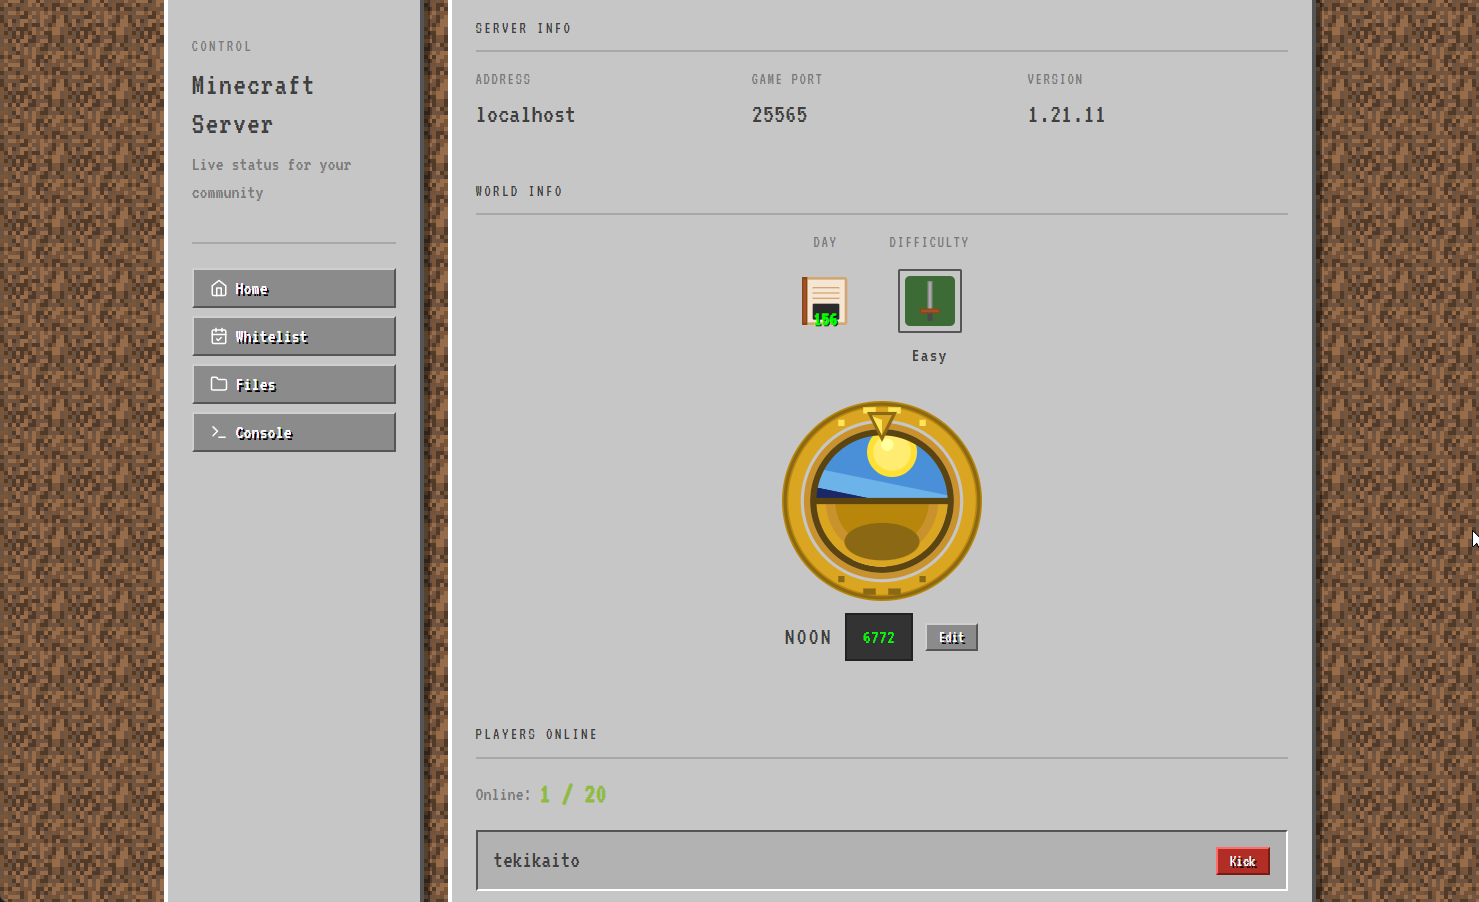
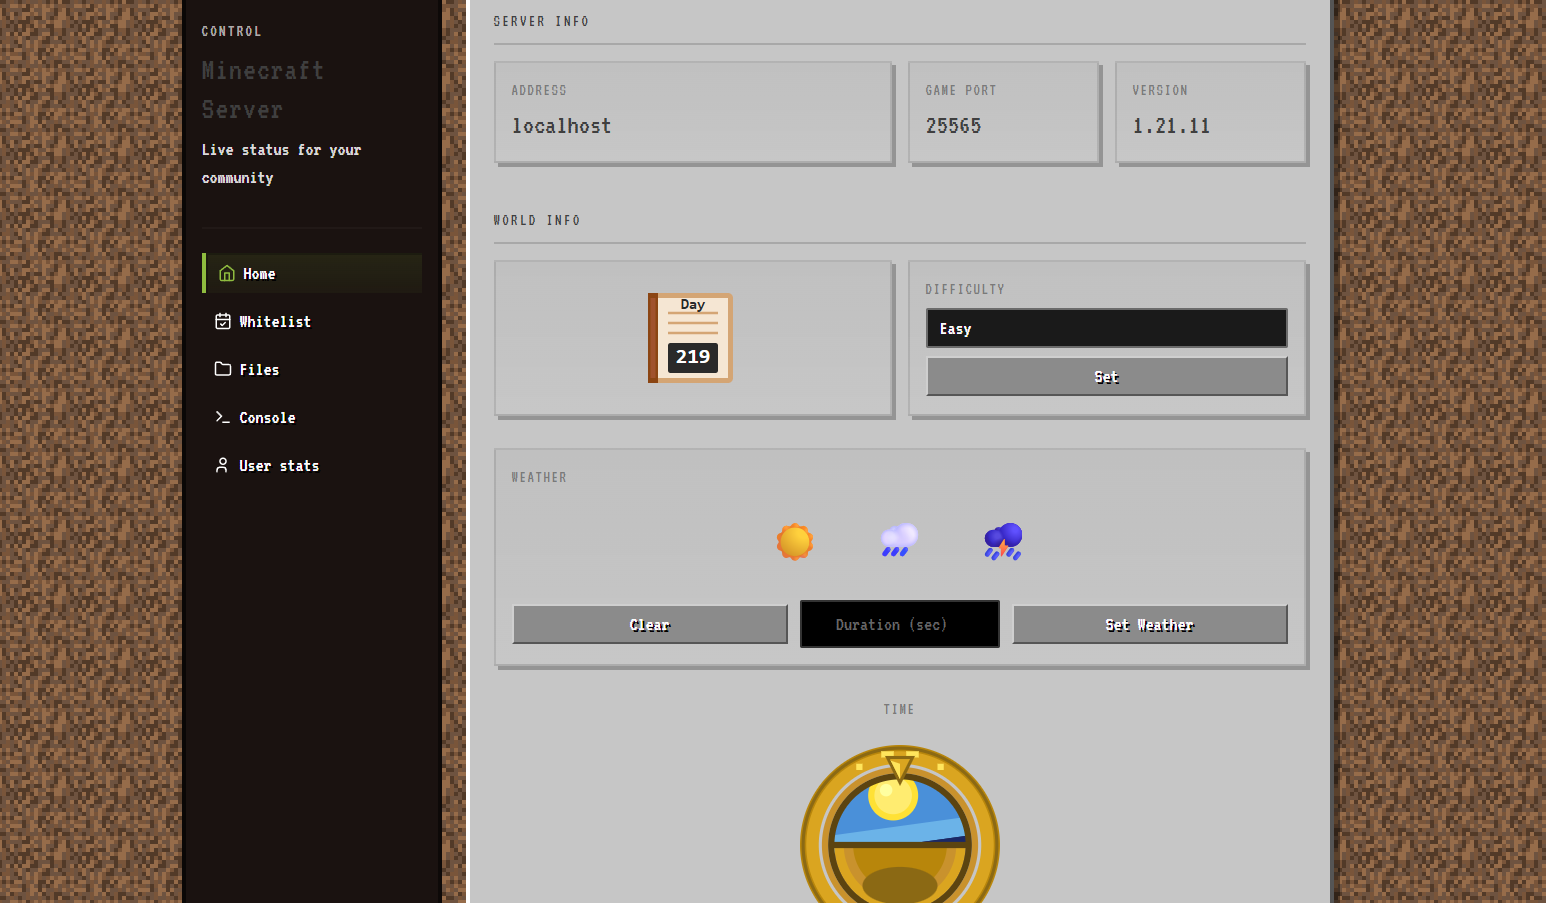
Adjust navigation styles (#14)
* Enhance sidebar navigation styles and functionality

* Update admin UI overview image

* update badge .badges/14/merge/coverage.svg

---------

diff --git a/templates/index.html b/templates/index.html
@@ -37,7 +37,8 @@
           <button
             type="button"
             data-nav="overview"
-            class="mc-btn nav-btn"
+            class="mc-btn nav-btn {{if eq .ActiveModule "world"}}active{{end}}"
+            {{if eq .ActiveModule "world"}}aria-current="page"{{end}}
             onclick="window.location.href='/'"
           >
             <svg
@@ -59,7 +60,8 @@
           <button
             type="button"
             data-nav="whitelist"
-            class="mc-btn nav-btn"
+            class="mc-btn nav-btn {{if eq .ActiveModule "whitelist"}}active{{end}}"
+            {{if eq .ActiveModule "whitelist"}}aria-current="page"{{end}}
             hx-get="/whitelist"
             hx-target="#subpage-panel"
             hx-swap="innerHTML"
@@ -88,7 +90,8 @@
           <button
             type="button"
             data-nav="files"
-            class="mc-btn nav-btn"
+            class="mc-btn nav-btn {{if eq .ActiveModule "files"}}active{{end}}"
+            {{if eq .ActiveModule "files"}}aria-current="page"{{end}}
             hx-get="/files"
             hx-target="#subpage-panel"
             hx-swap="innerHTML"
@@ -115,7 +118,8 @@
           <button
             type="button"
             data-nav="console"
-            class="mc-btn nav-btn"
+            class="mc-btn nav-btn {{if eq .ActiveModule "rcon"}}active{{end}}"
+            {{if eq .ActiveModule "rcon"}}aria-current="page"{{end}}
             hx-get="/rcon"
             hx-target="#subpage-panel"
             hx-swap="innerHTML"
@@ -140,7 +144,8 @@
           <button
             type="button"
             data-nav="user-stats"
-            class="mc-btn nav-btn"
+            class="mc-btn nav-btn {{if eq .ActiveModule "users"}}active{{end}}"
+            {{if eq .ActiveModule "users"}}aria-current="page"{{end}}
             hx-get="/users/stats"
             hx-target="#subpage-panel"
             hx-swap="innerHTML"
@@ -183,6 +188,23 @@
       const navButtons = document.querySelectorAll("[data-nav]");
       const subpagePanel = document.getElementById("subpage-panel");
       const defaultPanelContent = subpagePanel ? subpagePanel.innerHTML : "";
+
+      // Ensure the clicked nav button is visually marked active.
+      function setActiveNav(btn) {
+        navButtons.forEach((b) => {
+          b.classList.remove("active");
+          b.removeAttribute("aria-current");
+        });
+        if (btn) {
+          btn.classList.add("active");
+          btn.setAttribute("aria-current", "page");
+        }
+      }
+
+      navButtons.forEach((button) => {
+        // mark as active on click so HTMX swaps still reflect selection
+        button.addEventListener("click", () => setActiveNav(button));
+      });
 
       const removeModal = () => {
         const modal = document.getElementById("kick-modal");

diff --git a/static/css/style.css b/static/css/style.css
@@ -1007,6 +1007,56 @@ header {
   gap: var(--space-6);
 }
 
+/* Make the sidebar visually darker than the main app area. The sidebar
+   also uses the mc-panel class in markup so target the combined selector
+   to override the panel background and borders. */
+.mc-panel.sidebar {
+  background-color: var(--mc-bg-dark);
+  color: #e9e9e9;
+  border-color: rgba(0, 0, 0, 0.6) rgba(0, 0, 0, 0.5) rgba(0, 0, 0, 0.5)
+    rgba(0, 0, 0, 0.6);
+  box-shadow: none;
+  padding: var(--space-4);
+}
+
+/* Slightly darker header inside the sidebar */
+.mc-panel.sidebar .sidebar-header {
+  border-bottom-color: rgba(255, 255, 255, 0.03);
+}
+
+/* Navigation buttons inside sidebar */
+.nav .mc-btn {
+  background: transparent;
+  color: #ffffff;
+  border: none;
+  padding: 10px 12px;
+  justify-content: flex-start;
+}
+
+/* Hover state */
+.nav .mc-btn:hover {
+  background: rgba(255, 255, 255, 0.02);
+}
+
+/* Active/selected navigation item */
+.nav .mc-btn.active,
+.nav .mc-btn[aria-current="page"] {
+  background: linear-gradient(
+    180deg,
+    rgba(92, 122, 41, 0.18),
+    rgba(92, 122, 41, 0.08)
+  );
+  color: #fff;
+  border-left: 4px solid var(--mc-accent-light);
+  box-shadow: 2px 2px 0 rgba(0, 0, 0, 0.25) inset;
+}
+
+/* Make icons stand out a bit for active items */
+.nav .mc-btn.active svg,
+.nav .mc-btn[aria-current="page"] svg {
+  stroke: var(--mc-accent-light);
+}
+
 .sidebar-header {
   padding-bottom: var(--space-4);
   border-bottom: var(--border-thin) solid rgba(0, 0, 0, 0.15);
@@ -1016,20 +1066,23 @@ header {
   font-size: var(--font-xs);
   text-transform: uppercase;
   letter-spacing: 0.15em;
-  color: var(--mc-muted);
+  color: rgba(255, 255, 255, 0.65);
   margin-bottom: var(--space-2);
 }
 
 .sidebar-header__title {
   font-size: var(--font-xl);
-  color: var(--mc-panel-text);
+  color: rgba(255, 255, 255, 0.96);
   margin: 0;
   line-height: 1.2;
+  font-weight: 500;
+  text-shadow: none;
+  opacity: 1;
 }
 
 .sidebar-header__desc {
   font-size: var(--font-sm);
-  color: var(--mc-muted);
+  color: rgba(255, 255, 255, 0.85);
   margin-top: var(--space-2);
 }
 
